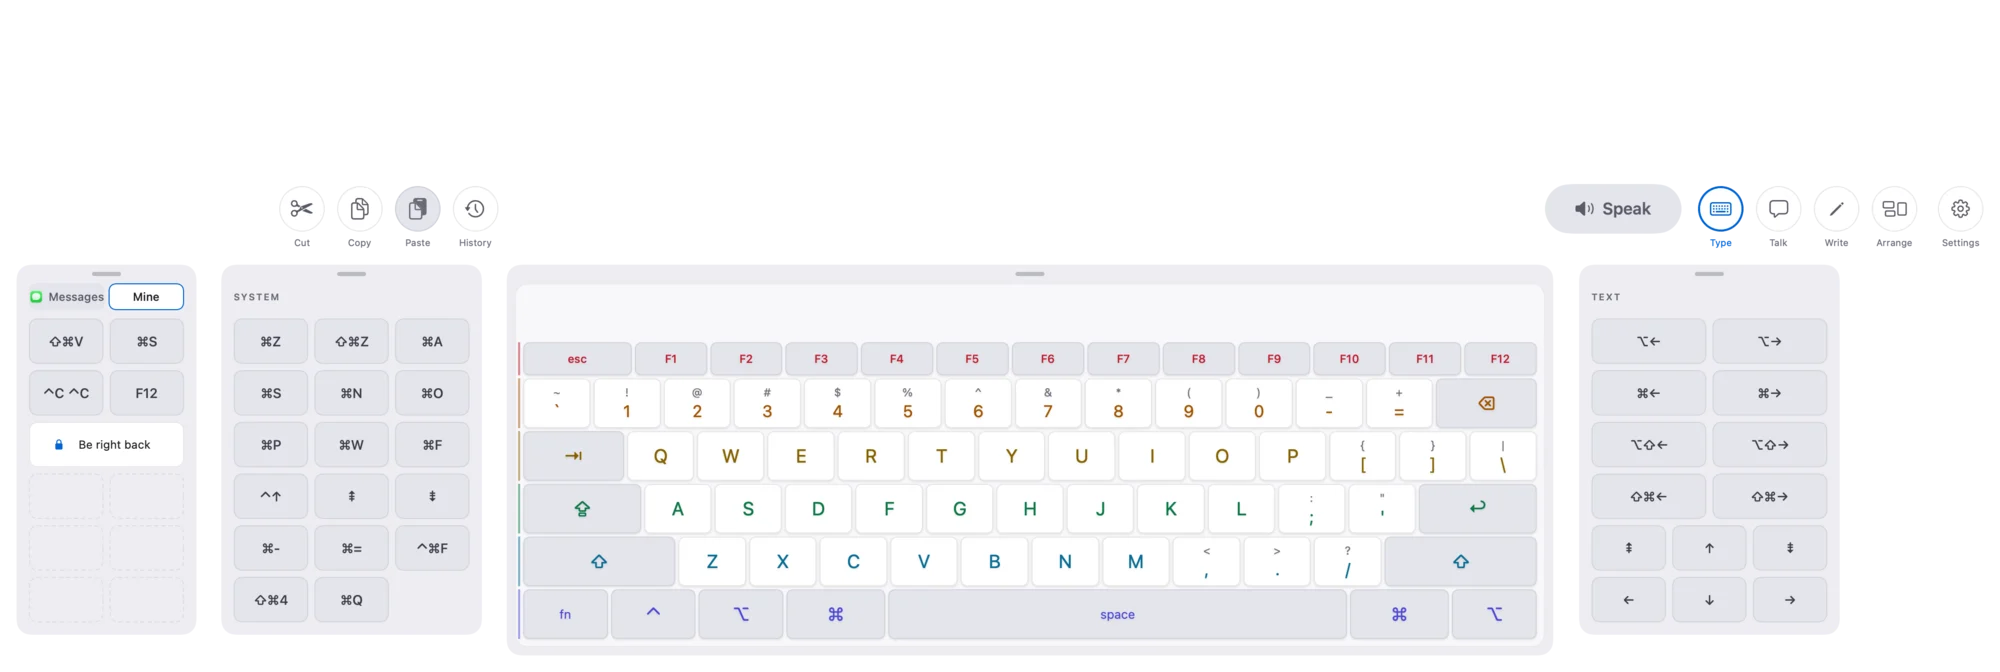
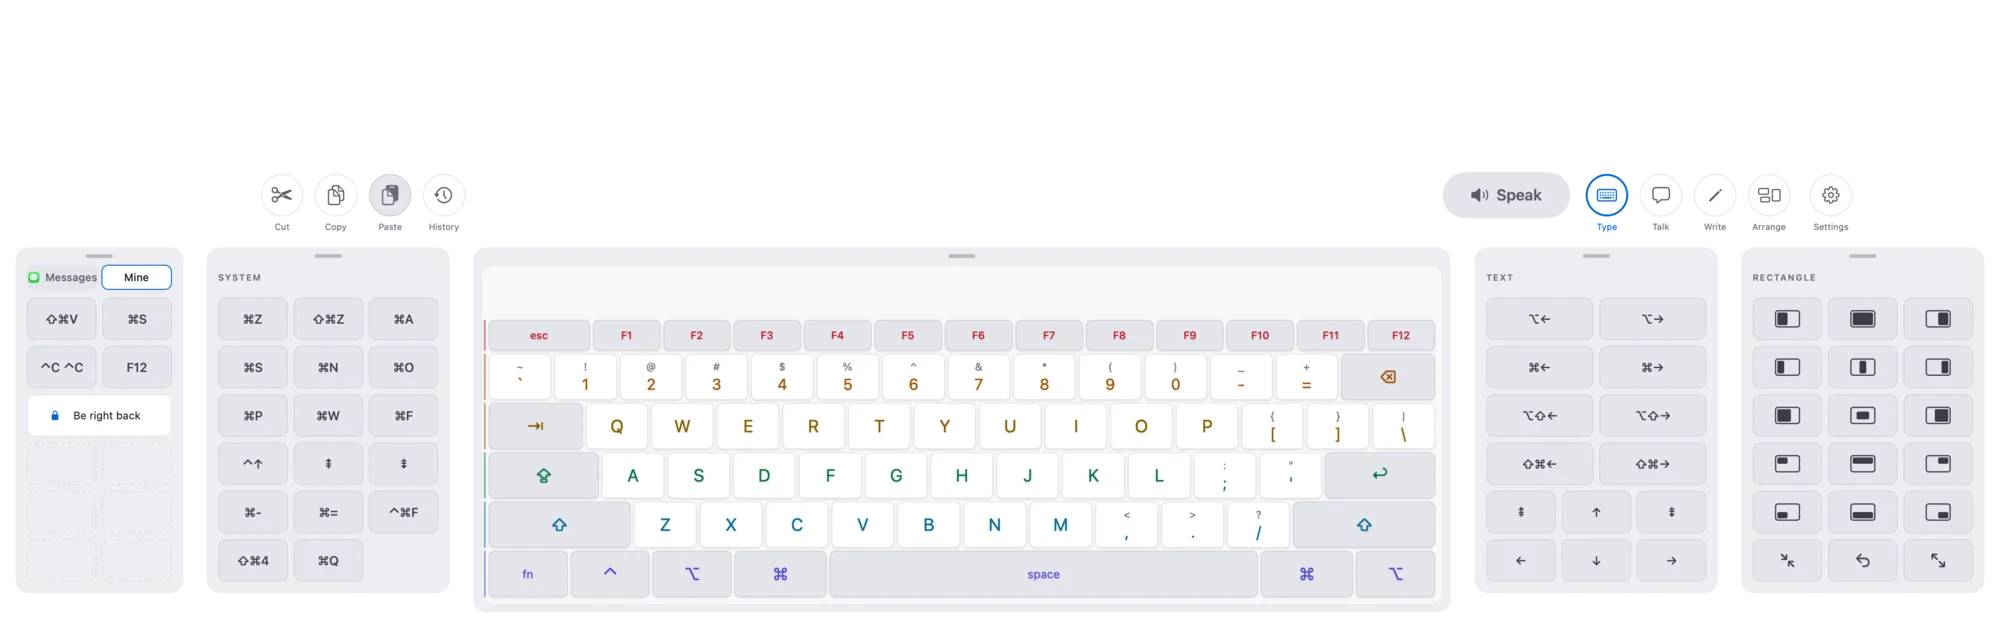
fix(web): show the Rectangle keypad on the keyboard page
The keyboard page now names the Text and System keypads and the Rectangle
keypad. The screenshots and animations are rendered again from the current
keyboard.

diff --git a/apps/web/src/components/keyboard/keyboard-sections.tsx b/apps/web/src/components/keyboard/keyboard-sections.tsx
@@ -169,14 +169,14 @@ export function FeatureSections() {
         <SectionHeader
           eyebrow="Shortcut panels"
           title="Press shortcuts without holding keys."
-          lede="The Edit, Text, and System keypads float beside the keys. The app panel shows the shortcuts of the app in front and puts the ones you use first. On its Mine tab, you make your own buttons: a shortcut, a row of shortcuts, or a phrase. The panels that you built for the Accessibility Keyboard import in one step."
+          lede="The Text and System keypads float beside the keys. If you use Rectangle, its keypad moves the window in front to a half, a third, or a corner. The app panel shows the shortcuts of the app in front and puts the ones you use first. On its Mine tab, you make your own buttons: a shortcut, a row of shortcuts, or a phrase. The panels that you built for the Accessibility Keyboard import in one step."
           hint="Drag a panel by its grip to move it. Arrange puts each panel back beside the keys."
         />
         <Shot
           src="mine.webp"
           alt="The keyboard with its panels. At the left, the Mine tab holds buttons such as Paste as Text, Save, and Be right back. The System keypad sits next to it. At the right, the Text keypad has arrow keys in the layout of a Mac keyboard."
           width={2000}
-          height={672}
+          height={628}
         />
       </section>
 
@@ -190,7 +190,7 @@ export function FeatureSections() {
           src="clipboard.webp"
           alt="The clipboard history, open above the input bar. It shows copied texts such as a link, a dinner booking, a Terminal command, and the start of a note to a team."
           width={2000}
-          height={672}
+          height={628}
         />
       </section>
     </div>

diff --git a/apps/web/src/components/keyboard/keyboard-hero.tsx b/apps/web/src/components/keyboard/keyboard-hero.tsx
@@ -114,7 +114,7 @@ export function KeyboardHero() {
               still="type.webp"
               alt="The keyboard types 'Are we still on for t' into Messages. Above the input bar, three sentence predictions offer endings such as 'the match tonight?' A row of words above the keys completes the word. A press on a prediction finishes the sentence."
               width={3200}
-              height={1075}
+              height={1004}
               eager
             />
             <figcaption className="mt-4 px-1 text-sm leading-relaxed text-zinc-600">
